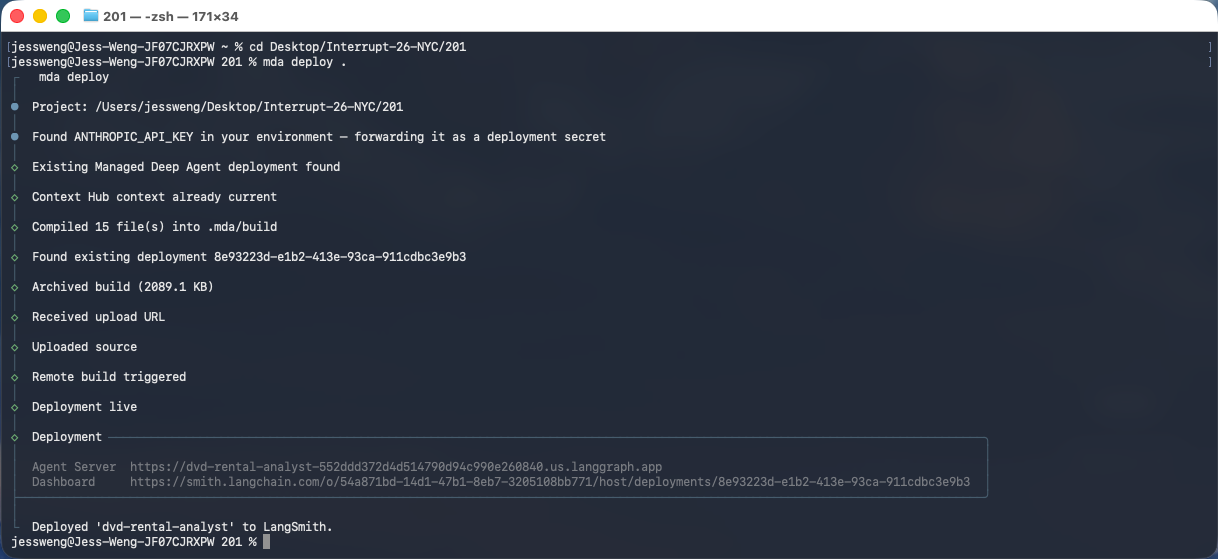
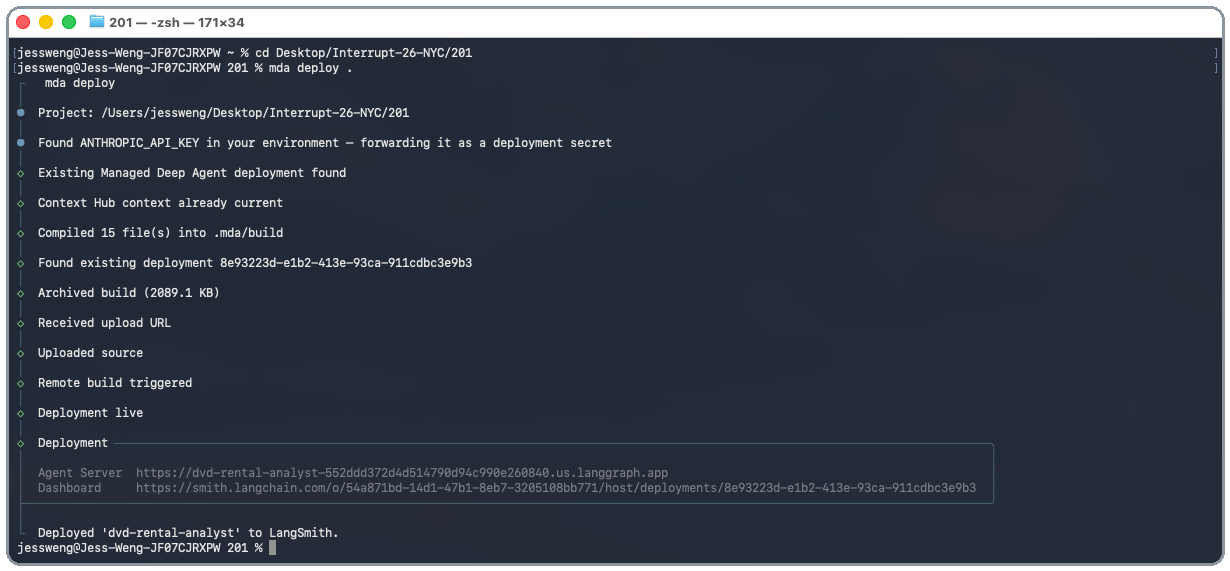
Clean up deploy screenshot framing and clarify Studio connection steps
Add a rounded border to the CLI screenshot and remove the background
bleed visible in its corners. Also rewrite the dashboard-URL
instructions to match the actual Connect -> Open in Studio flow.

Changed region(s): [[0.0, 0.0, 1.0, 1.0]]

diff --git a/README.md b/README.md
@@ -68,8 +68,9 @@ Agent Server URL and a LangSmith dashboard URL.
 
 ![Terminal output from mda deploy ., ending with the Agent Server and Dashboard URLs](images/CLI.png)
 
-**Open the dashboard URL**, then click into the deployment and open **Studio** from there to
-chat with your agent.
+**Copy and paste the dashboard URL**, it will open up in LangSmith Deployments. Then click on the
+blue **Connect** button in the top right corner and click the **Open in Studio** button to chat
+with your agent.
 
 
 ## 2. Skim the wiring (read-only)
